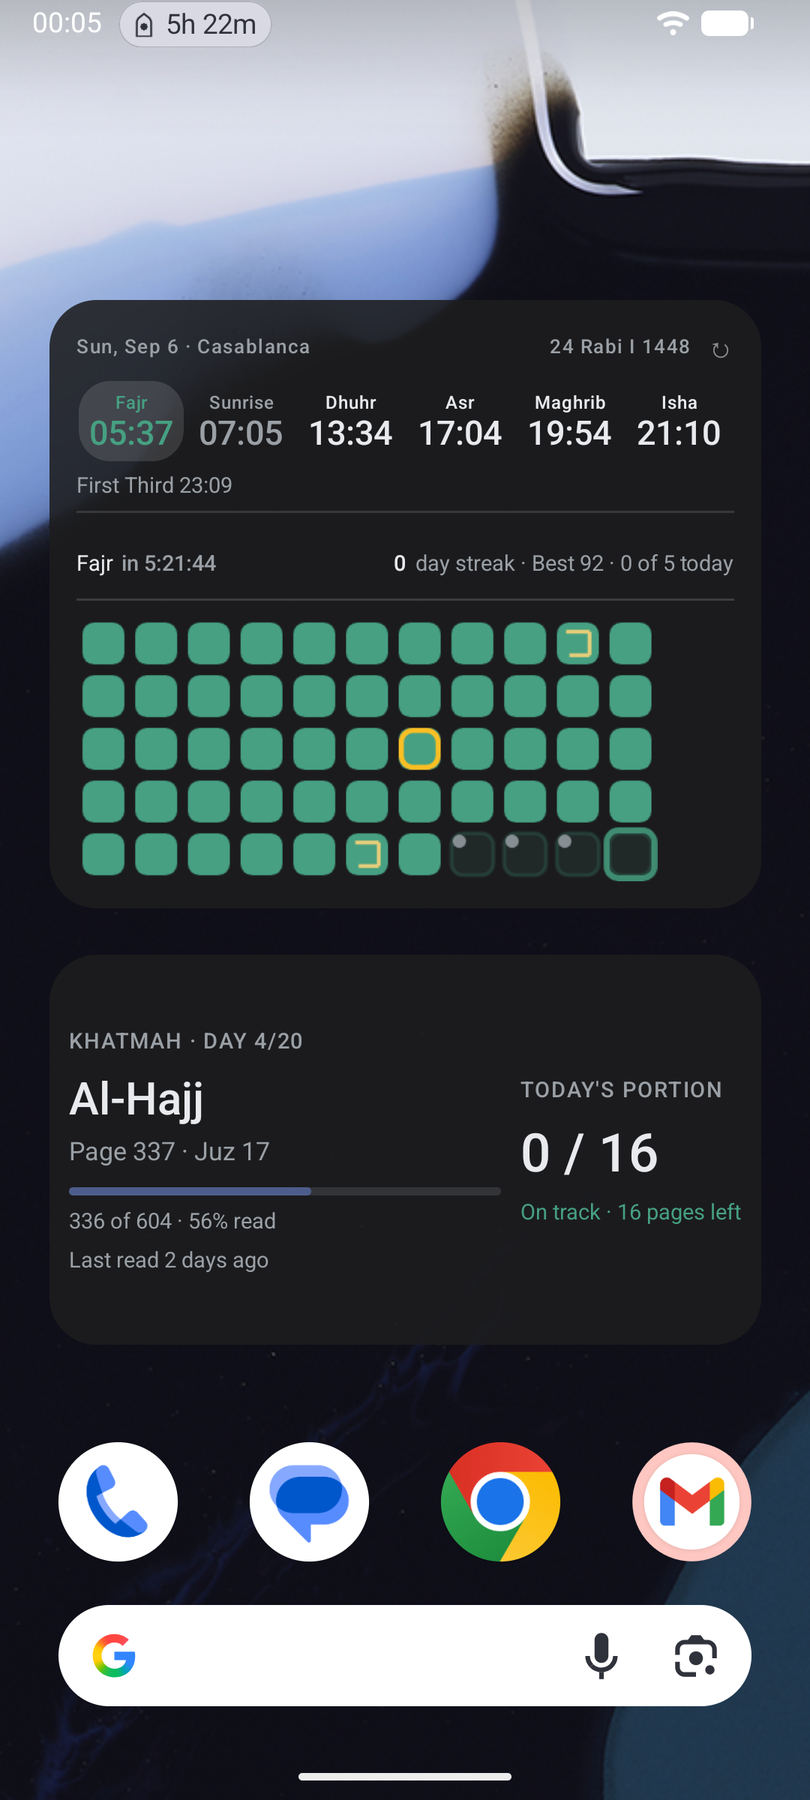
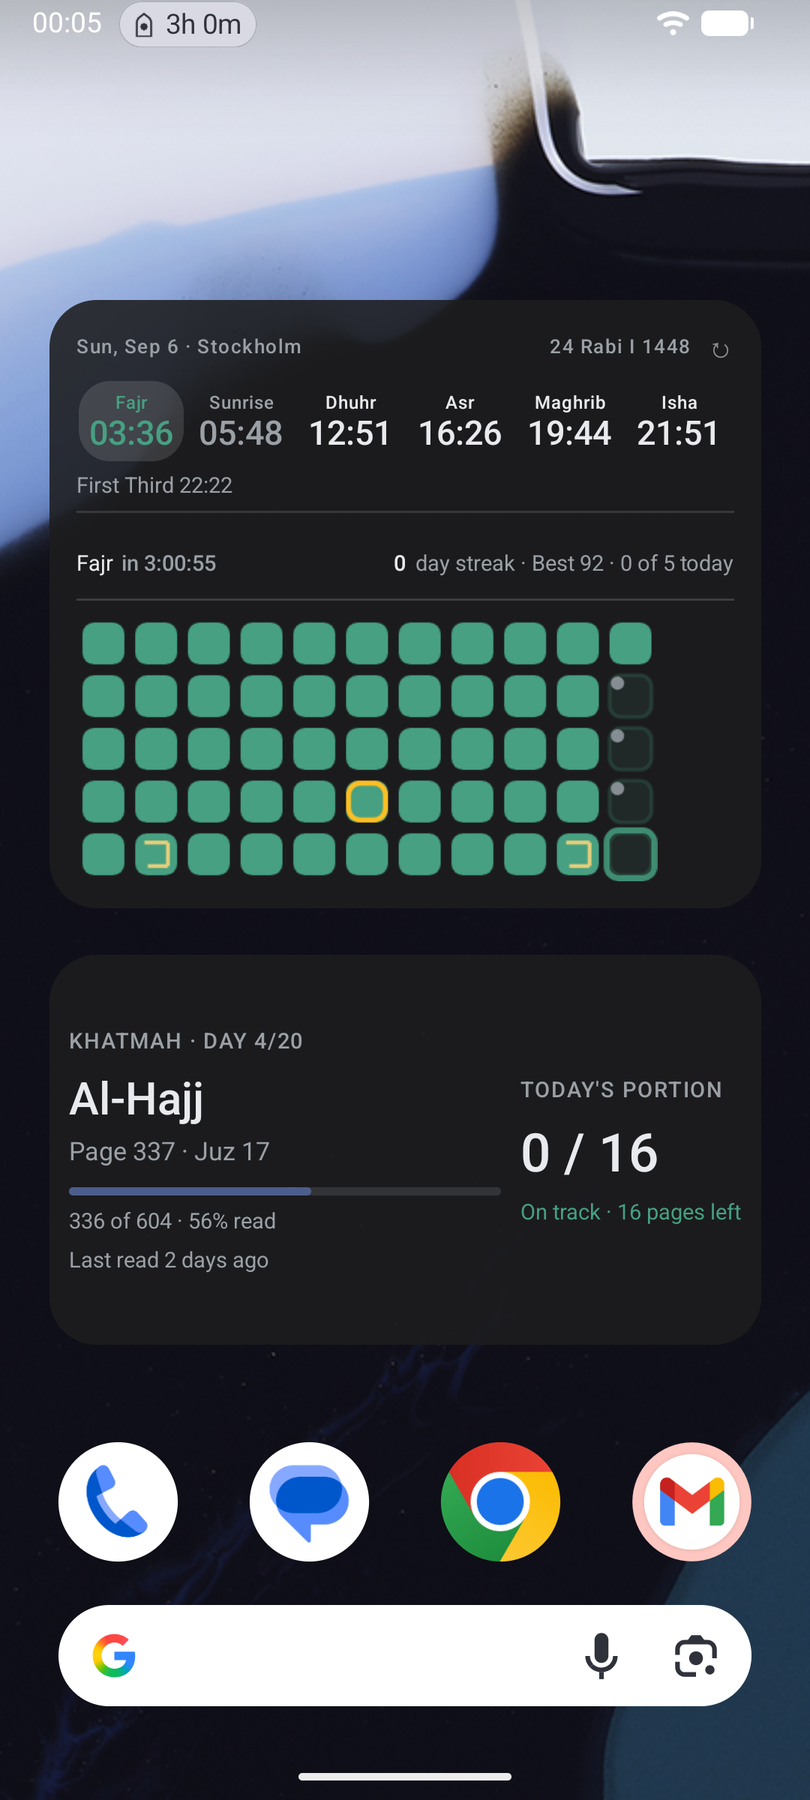
Run the widget practice graph down its columns, like the Log screen does
The graph drew its days along rows: left to right, then down, today in
the bottom-right. Chronologically that was right — checked square by
square against the in-app heatmap, same days with the same marks — but
the Log screen lays that record out the other way, running the days down
each column with a column to a week and the newest week at the right. So
the two pictures of one record needed two reading directions, and after
reading the screen you had to re-learn the widget to find yesterday.

Now the widget runs down its columns too. At seven rows it is literally
the Log screen's heatmap; at every other row count — and the row count
still follows the height the launcher gives it — it is at least the same
reading direction. Today is still the last cell either way.

Reported twice as "the order of the rectangles is messed up", which I
twice answered by re-verifying the dates rather than by looking at what
the other screen does with them.

diff --git a/__tests__/widgetPracticeGridFill.test.ts b/__tests__/widgetPracticeGridFill.test.ts
@@ -125,12 +125,15 @@ describe('the graph spans its box, whatever the height turns out to be', () => {
 });
 
 describe('the run of days reads in order, and ends today', () => {
-  it('fills a row at a time, left to right', () => {
-    // Row-major, like text. The old grid was seven rows of week-columns,
-    // which is the in-app heatmap's shape and needs a legend this surface
-    // does not have.
+  it('fills a column at a time, top to bottom', () => {
+    // Column-major, because the Log screen's heatmap is: days run down a
+    // column, a column is a week, the newest week is on the right. It was
+    // row-major for a while — the days were the same days in the same
+    // order, but laid along rows, and reading the widget after reading the
+    // Log screen meant re-learning which square was which. Two pictures of
+    // one record should not need two reading directions.
     expect(GRID).toMatch(
-      /for \(row in 0 until rows\) \{\s*\n\s*for \(col in 0 until columns\)/,
+      /for \(col in 0 until columns\) \{\s*\n\s*for \(row in 0 until rows\)/,
     );
   });
 

diff --git a/android/app/src/main/java/com/prayer_times/PracticeGridBitmap.kt b/android/app/src/main/java/com/prayer_times/PracticeGridBitmap.kt
@@ -223,8 +223,13 @@ object PracticeGridBitmap {
       add(Calendar.DAY_OF_YEAR, -(rows * columns - 1))
     }
 
-    for (row in 0 until rows) {
-      for (col in 0 until columns) {
+    // COLUMN-MAJOR, and deliberately: the Log screen's heatmap runs the days
+    // down each column, one column to a week, newest week at the right. At
+    // seven rows this grid IS that heatmap; at any other row count it is
+    // still the same reading direction, so the widget and the screen it
+    // summarises never disagree about which square is which day.
+    for (col in 0 until columns) {
+      for (row in 0 until rows) {
         val key = keyOf(cursor)
         val left = (pad + col * (cellWPx + gapPx)).toFloat()
         val top = (pad + row * (cellHPx + gapPx)).toFloat()
